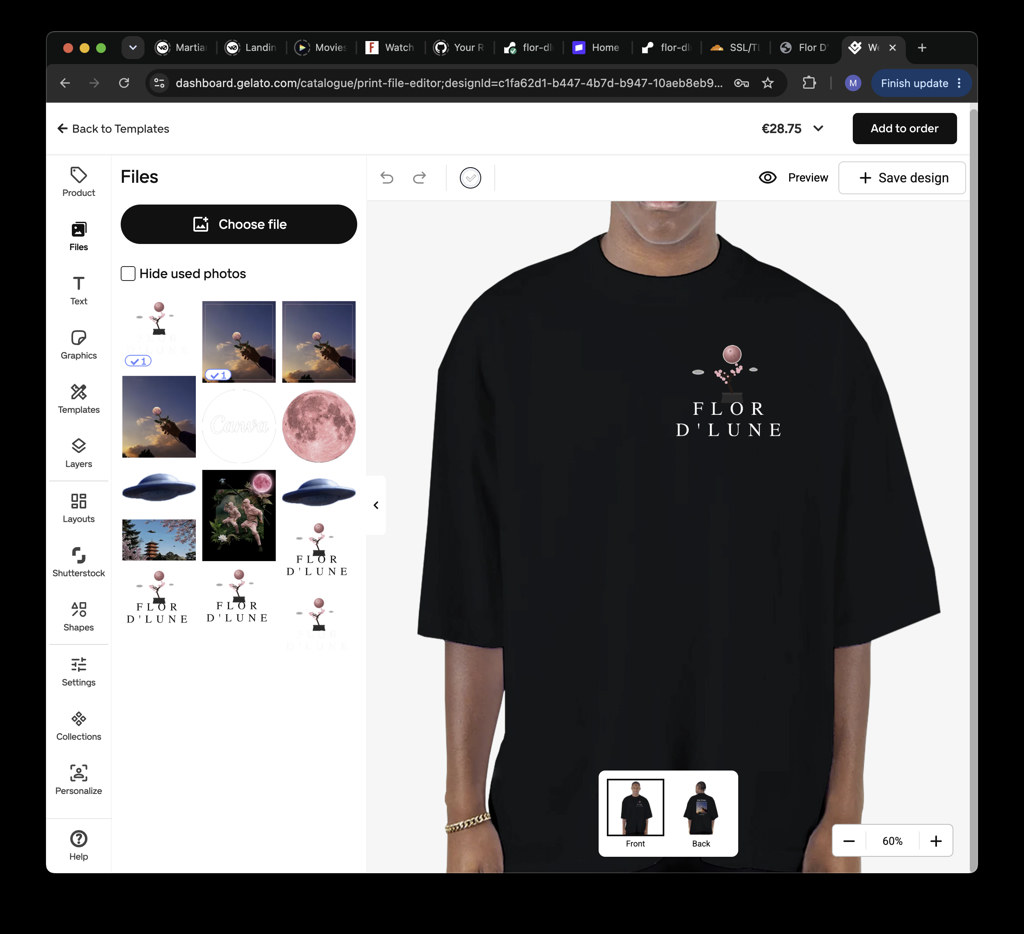
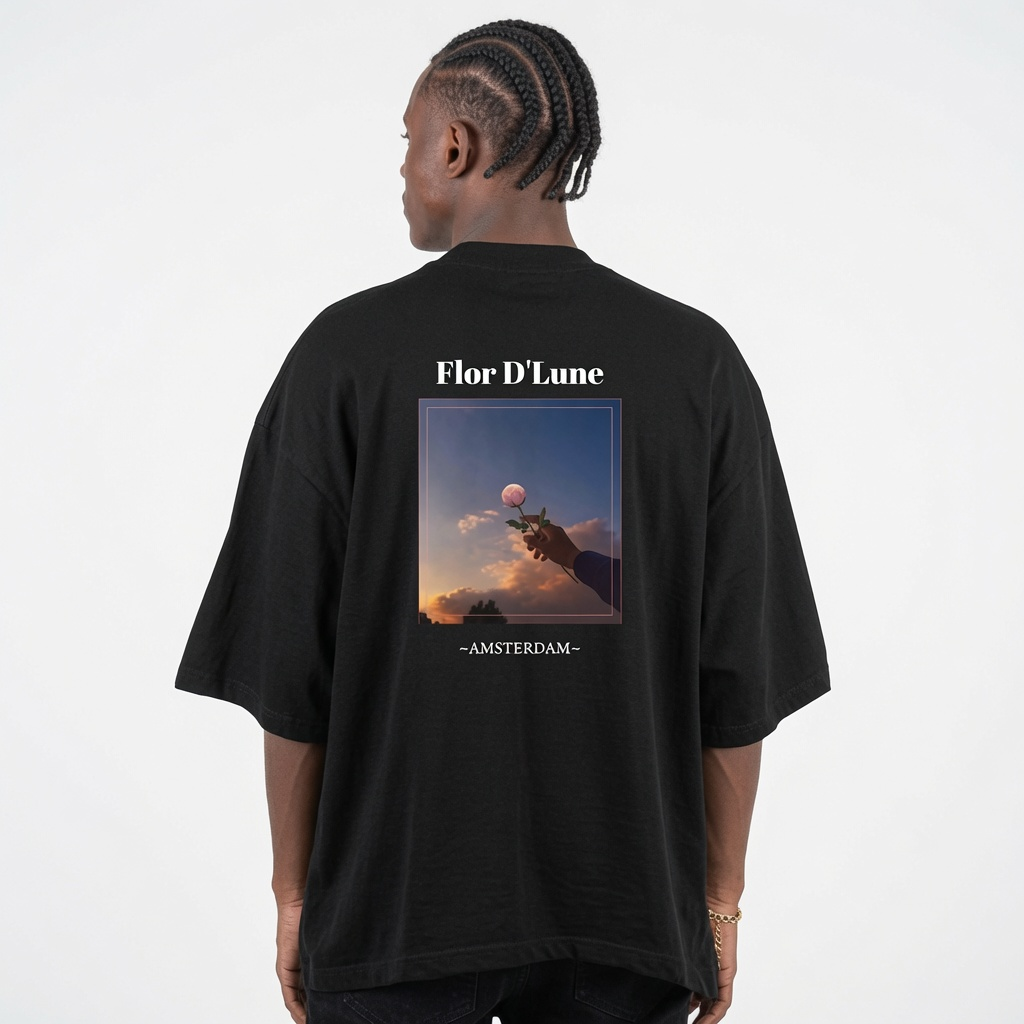
Replace capsule 02 tee photos with proper front/back product shots
Use the new black tee mockups for front and back views on the shop card.

diff --git a/lib/products.ts b/lib/products.ts
@@ -62,12 +62,12 @@ export const LAUNCH_PRODUCTS: Product[] = [
     id: 'capsule-02-tee',
     name: 'Capsule 02 Tee',
     brandLabel: "FLOR D'LUNE",
-    subtitle: 'White · Front & Back Print',
+    subtitle: 'Black · Front & Back Print',
     price: 6200,
     displayPrice: '€62',
-    image: '/images/products/tshirts/capsule-02-tee-white.jpg',
+    image: '/images/products/tshirts/capsule-02-tee-front.jpg',
     images: [
-      '/images/products/tshirts/capsule-02-tee-white.jpg',
+      '/images/products/tshirts/capsule-02-tee-front.jpg',
       '/images/products/tshirts/capsule-02-tee-back.jpg',
     ],
     category: 'shirt',